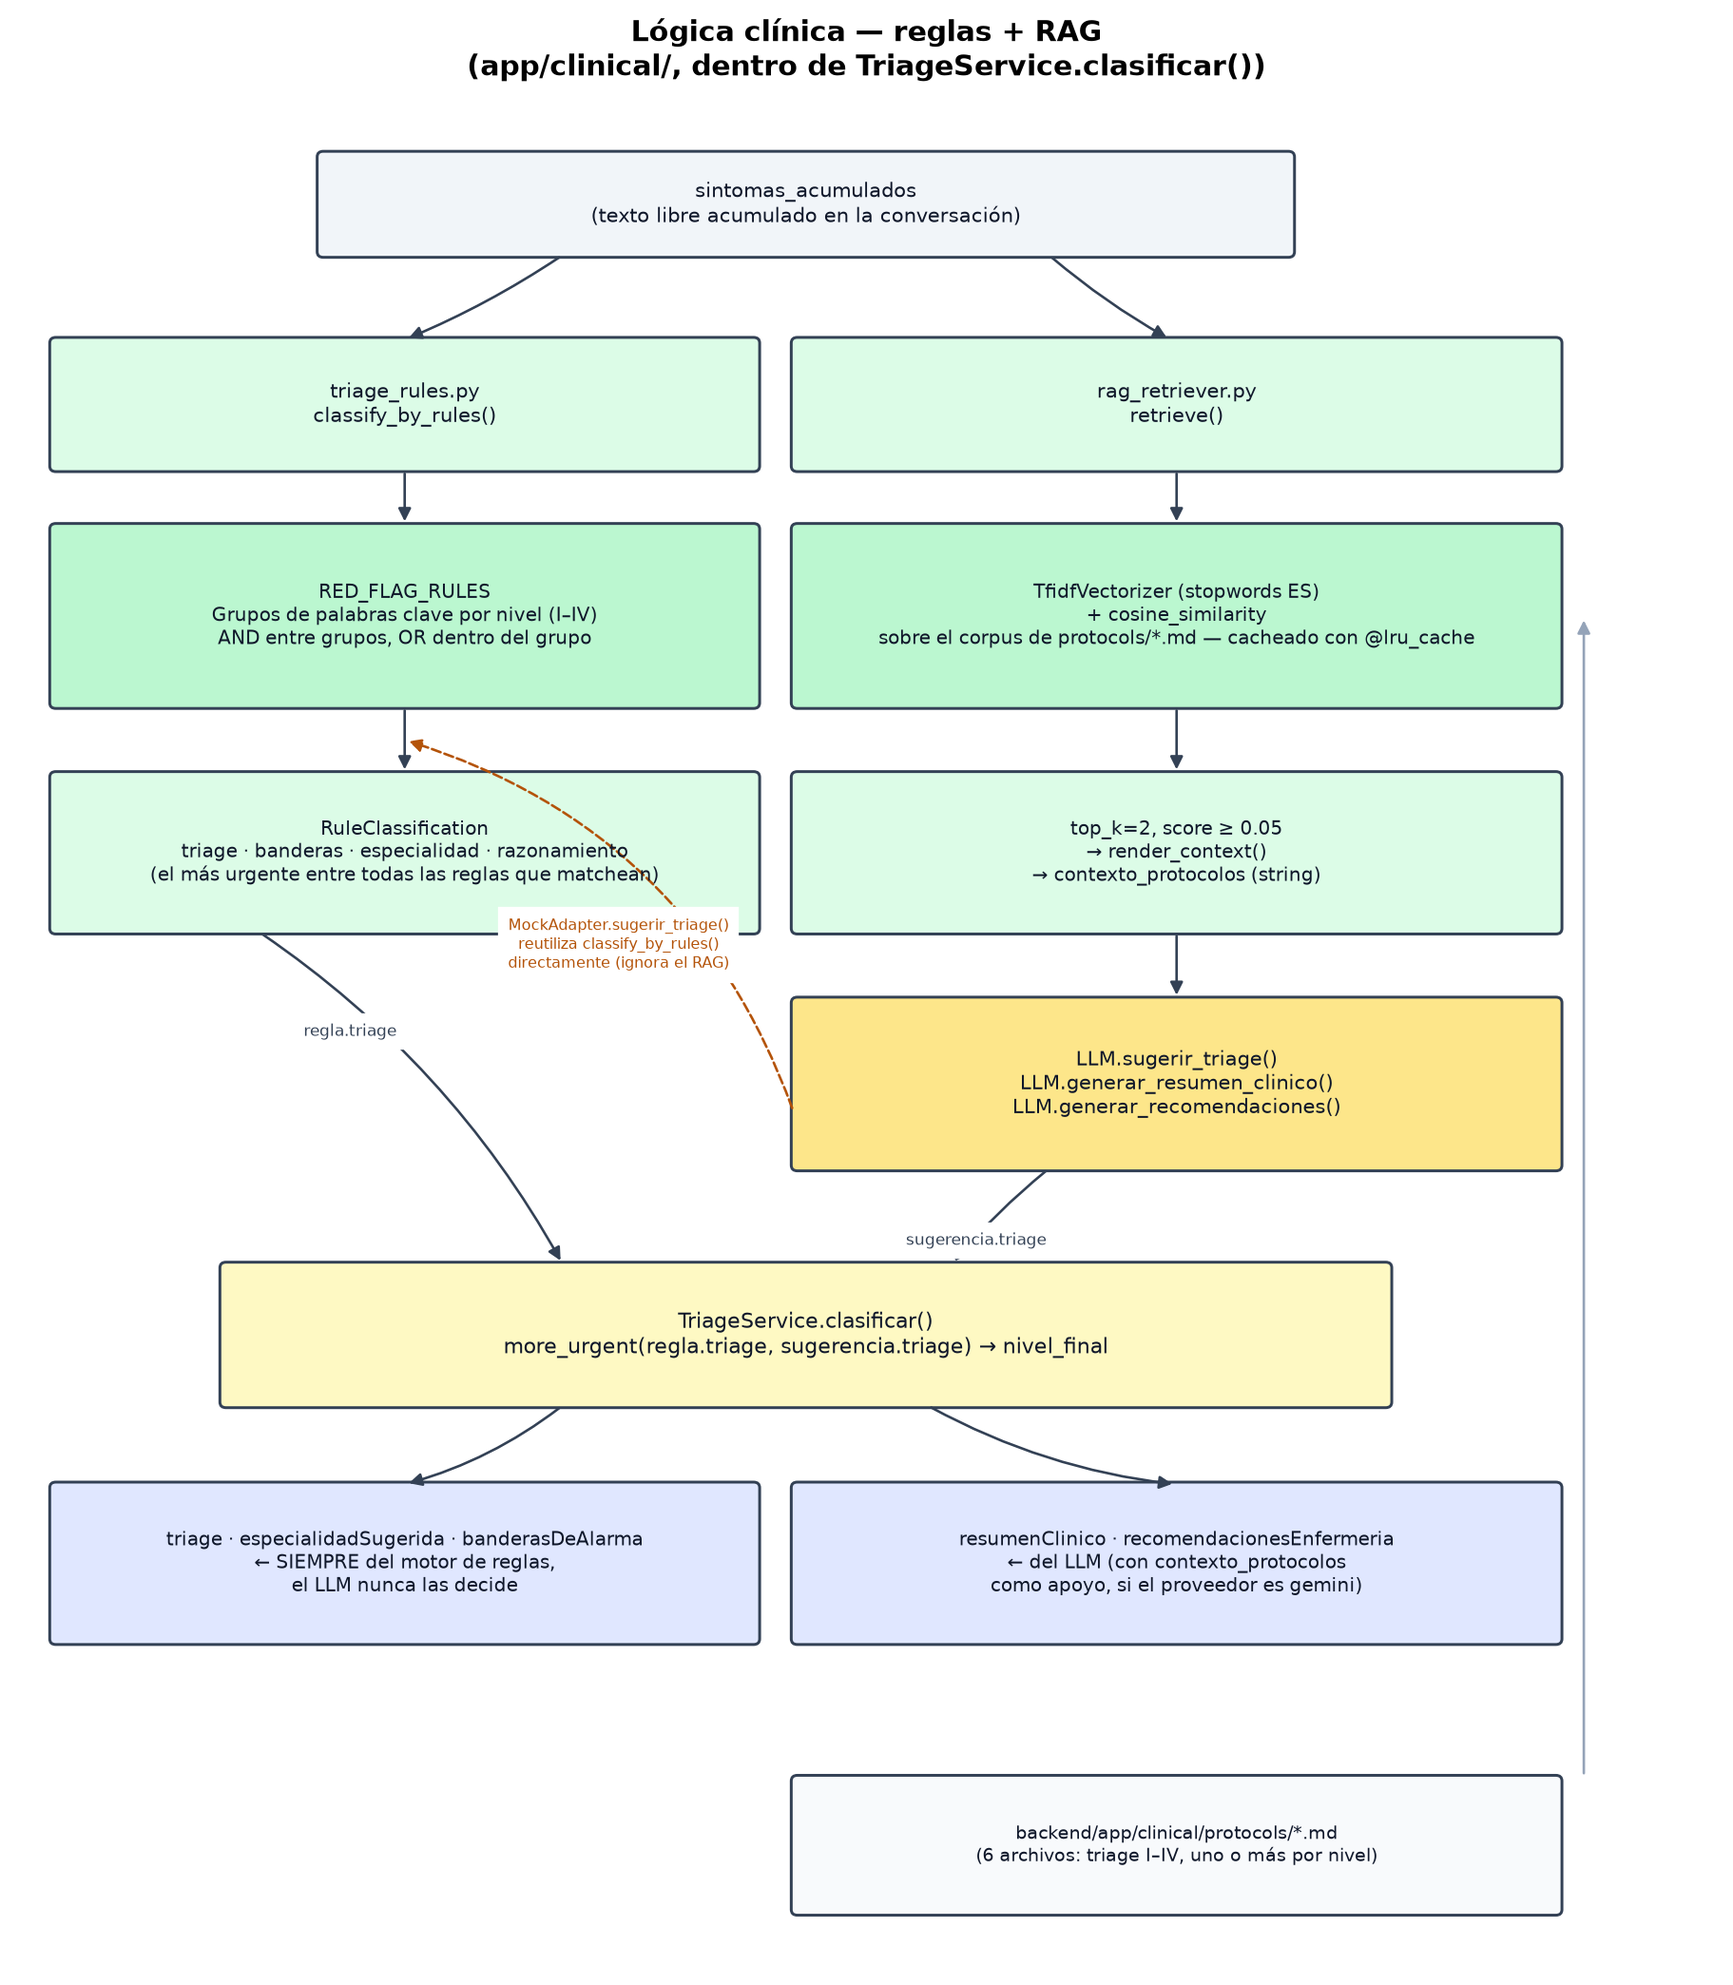
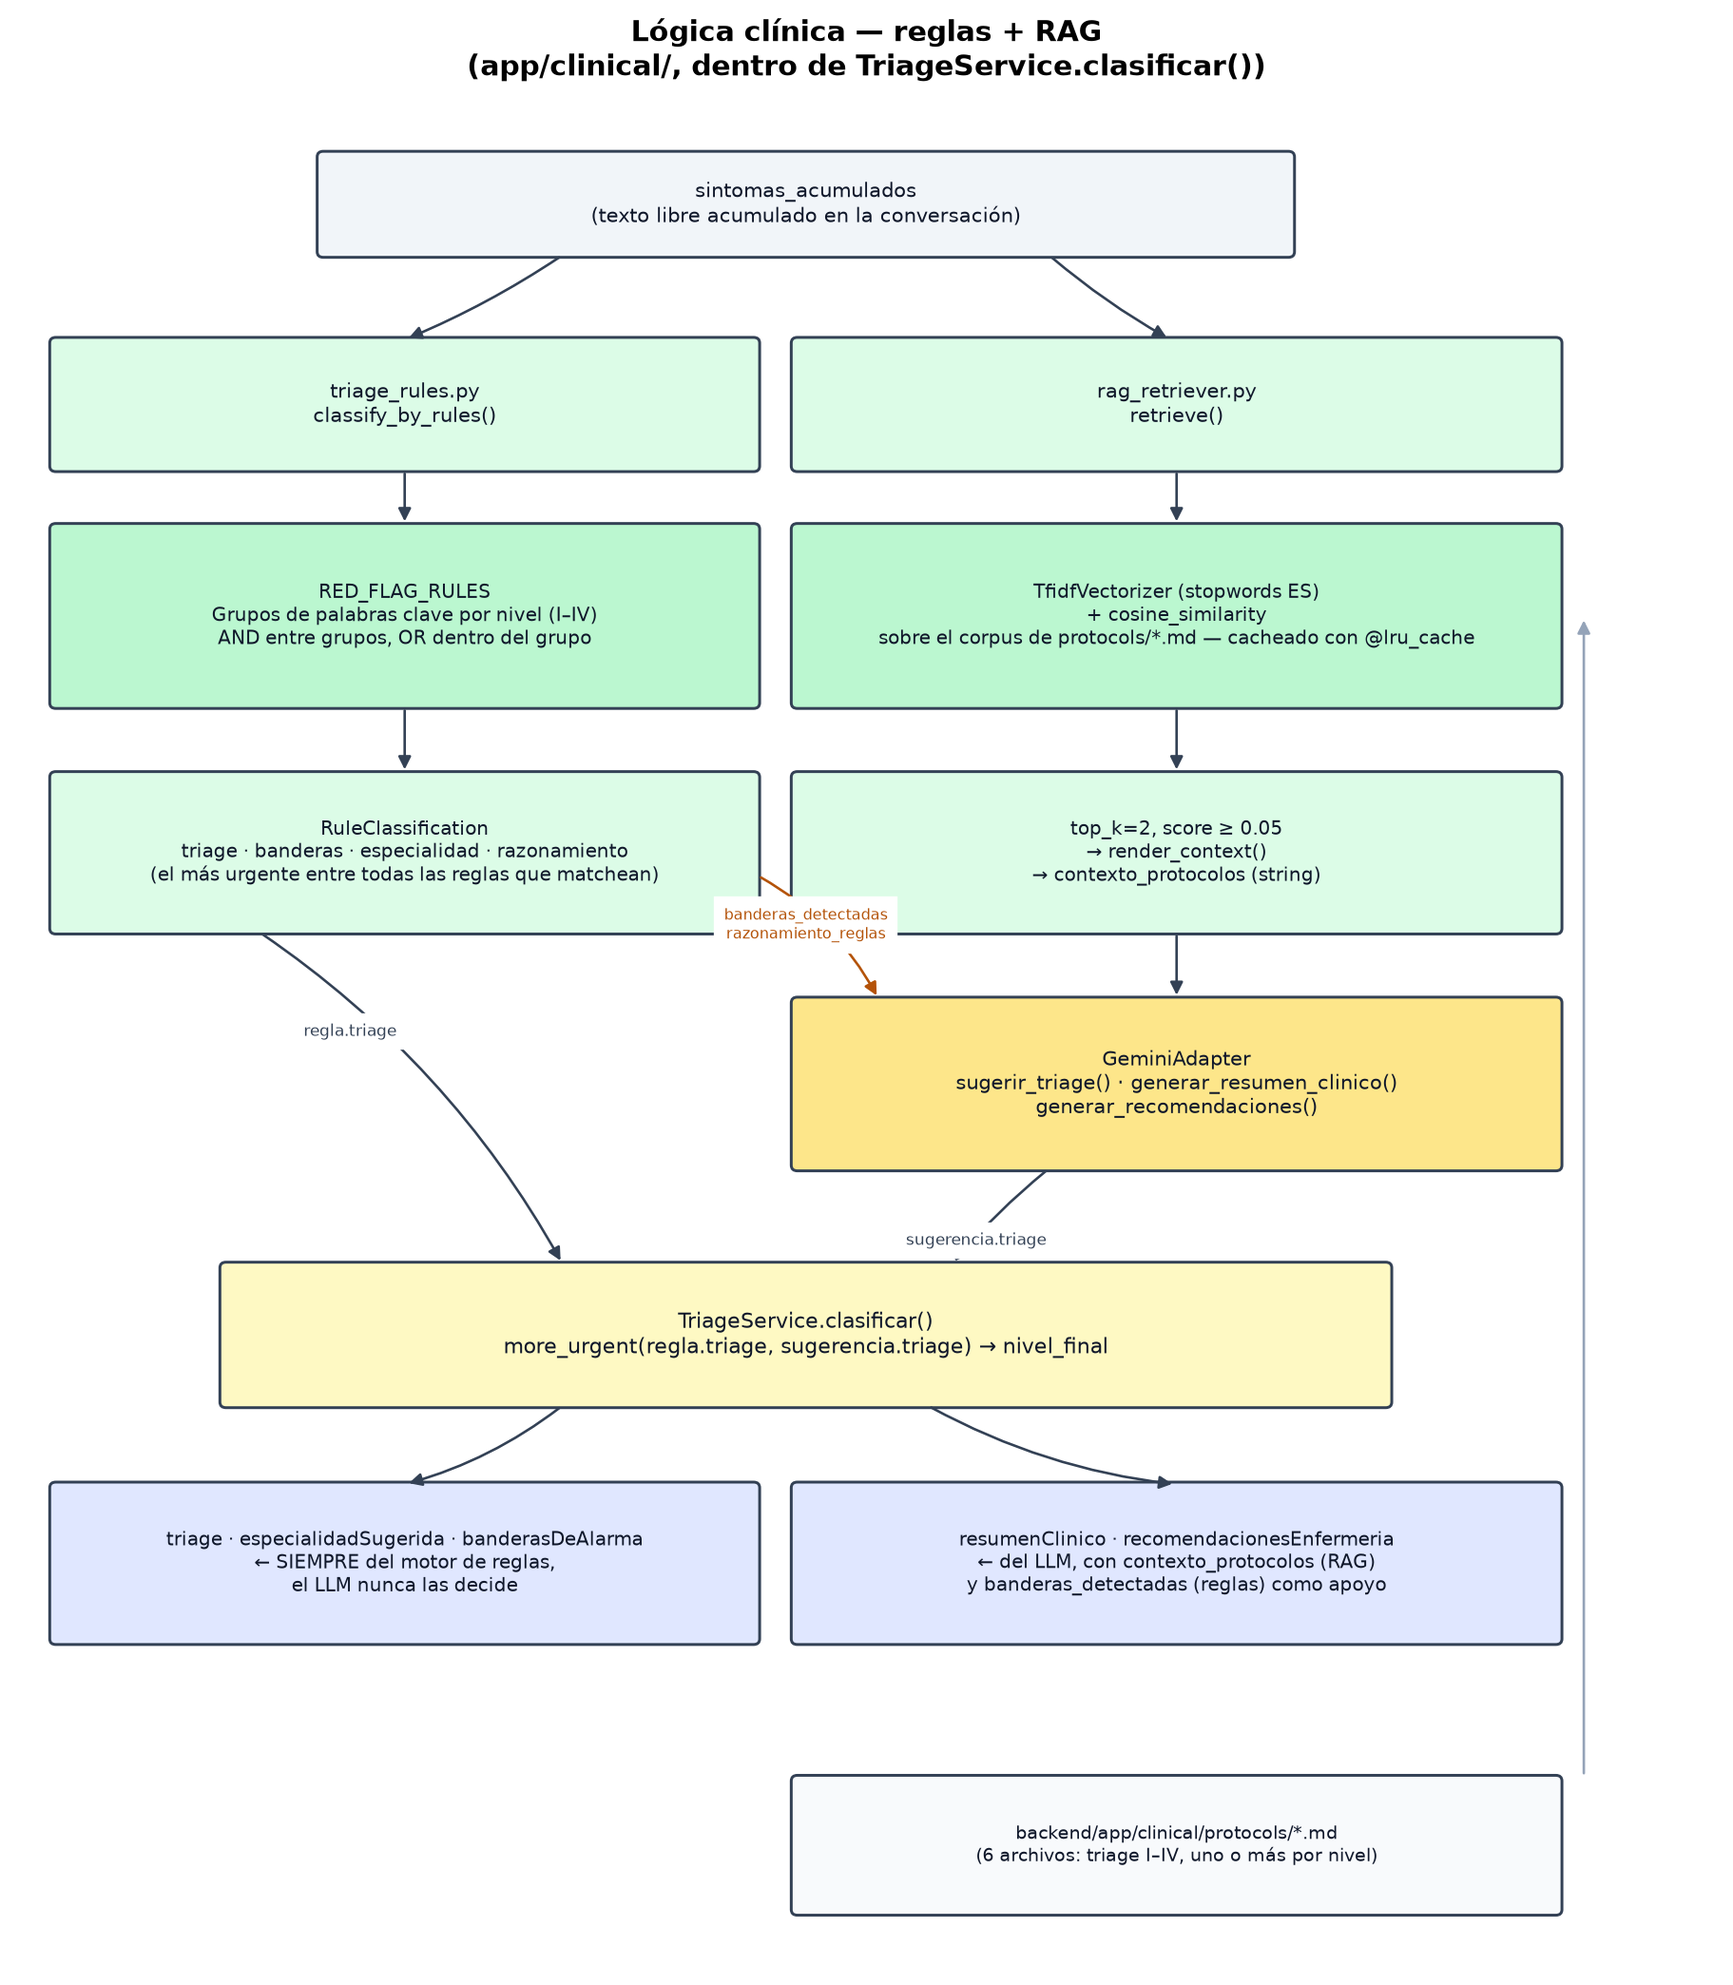
adaptaor mock eliminado

Changed region(s): [[0.2765, 0.4358, 0.5222, 0.4981], [0.5529, 0.7783, 0.7987, 0.8094], [0.5529, 0.5292, 0.7987, 0.5603]]

diff --git a/backend/app/llm/gemini.py b/backend/app/llm/gemini.py
@@ -59,18 +59,38 @@ class GeminiAdapter(LLMAdapter):
             raise LLMProviderError(f"Gemini: no se pudo interpretar la respuesta de intake ({exc})") from exc
 
     async def generar_resumen_clinico(
-        self, *, sintomas_acumulados: str, paciente: Paciente | None, contexto_protocolos: str
+        self,
+        *,
+        sintomas_acumulados: str,
+        paciente: Paciente | None,
+        contexto_protocolos: str,
+        banderas_detectadas: list[str],
     ) -> str:
         datos_paciente = {"edad": paciente.edad, "sexo": paciente.sexo} if paciente else "no proporcionados"
+        banderas_texto = ", ".join(banderas_detectadas) if banderas_detectadas else "ninguna detectada"
         contenido = (
             f"Síntomas reportados: {sintomas_acumulados}\n"
             f"Datos del paciente: {datos_paciente}\n"
+            f"Banderas de alarma ya detectadas por el motor de reglas: {banderas_texto}\n"
             f"Contexto de protocolos relevante:\n{contexto_protocolos or 'N/A'}"
         )
         return (await self._complete(system=RESUMEN_SYSTEM_PROMPT, messages=[{"role": "user", "content": contenido}])).strip()
 
-    async def sugerir_triage(self, *, sintomas_acumulados: str, contexto_protocolos: str) -> TriageSuggestion:
-        contenido = f"Síntomas: {sintomas_acumulados}\nProtocolos relevantes:\n{contexto_protocolos or 'N/A'}"
+    async def sugerir_triage(
+        self,
+        *,
+        sintomas_acumulados: str,
+        contexto_protocolos: str,
+        banderas_detectadas: list[str],
+        razonamiento_reglas: str,
+    ) -> TriageSuggestion:
+        banderas_texto = ", ".join(banderas_detectadas) if banderas_detectadas else "ninguna"
+        contenido = (
+            f"Síntomas: {sintomas_acumulados}\n"
+            f"Protocolos relevantes:\n{contexto_protocolos or 'N/A'}\n"
+            f"Banderas de alarma ya detectadas por el motor de reglas: {banderas_texto}\n"
+            f"Razonamiento del motor de reglas: {razonamiento_reglas}"
+        )
         raw = await self._complete(system=TRIAGE_SYSTEM_PROMPT, messages=[{"role": "user", "content": contenido}])
         try:
             return TriageSuggestion(**extract_json(raw))

diff --git a/backend/app/llm/base.py b/backend/app/llm/base.py
@@ -38,19 +38,31 @@ class LLMAdapter(ABC):
         sintomas_acumulados: str,
         paciente: Paciente | None,
         contexto_protocolos: str,
+        banderas_detectadas: list[str],
     ) -> str:
         """Genera un resumen clínico breve en tercera persona, estilo nota
-        de enfermería, a partir de los síntomas reportados."""
+        de enfermería, a partir de los síntomas reportados. `banderas_detectadas`
+        viene del motor de reglas (`app/clinical/triage_rules.py`) y se pasa como
+        contexto para que el resumen no quede inconsistente con lo que ese motor
+        ya encontró."""
 
     @abstractmethod
     async def sugerir_triage(
-        self, *, sintomas_acumulados: str, contexto_protocolos: str
+        self,
+        *,
+        sintomas_acumulados: str,
+        contexto_protocolos: str,
+        banderas_detectadas: list[str],
+        razonamiento_reglas: str,
     ) -> TriageSuggestion:
         """Sugiere un nivel de triage (I-IV) con su justificación. Esta sugerencia
         NUNCA se usa sola: el servicio de triage siempre la combina con el motor de
         reglas de banderas de alarma (`app/clinical/triage_rules.py`) tomando el
         nivel más urgente entre ambos, de modo que el LLM solo puede escalar la
-        prioridad, nunca reducirla por debajo de lo que indican las reglas."""
+        prioridad, nunca reducirla por debajo de lo que indican las reglas.
+        `banderas_detectadas` y `razonamiento_reglas` son la salida de ese mismo
+        motor, pasada como contexto adicional para que la sugerencia del LLM sea
+        consistente con lo que las reglas ya encontraron."""
 
     @abstractmethod
     async def generar_recomendaciones(

diff --git a/backend/app/config/settings.py b/backend/app/config/settings.py
@@ -3,8 +3,6 @@ from typing import Literal
 
 from pydantic_settings import BaseSettings, SettingsConfigDict
 
-LLMProvider = Literal["gemini", "mock"]
-
 
 class Settings(BaseSettings):
     model_config = SettingsConfigDict(env_file=".env", env_file_encoding="utf-8", extra="ignore")
@@ -14,11 +12,9 @@ class Settings(BaseSettings):
     log_level: str = "INFO"
     cors_origins: str = "http://localhost:5173"
 
-    # Proveedor de LLM activo. Si no hay API key configurada para el
-    # proveedor elegido, la app cae automáticamente a "mock" (motor de
-    # reglas) para poder seguir funcionando en desarrollo/pruebas.
-    llm_provider: LLMProvider = "mock"
-
+    # Gemini es el único proveedor de LLM soportado. Sin GEMINI_API_KEY
+    # configurada, app/llm/factory.py falla al arrancar (fail-fast) en vez
+    # de degradar en silencio a un motor sin LLM real.
     gemini_api_key: str | None = None
     gemini_model: str = "gemini-1.5-flash"
 
@@ -38,15 +34,6 @@ class Settings(BaseSettings):
     @property
     def cors_origin_list(self) -> list[str]:
         return [origin.strip() for origin in self.cors_origins.split(",") if origin.strip()]
-
-    def active_provider(self) -> LLMProvider:
-        """Determina el proveedor realmente utilizable según las keys presentes."""
-        key_by_provider = {
-            "gemini": self.gemini_api_key,
-        }
-        if self.llm_provider != "mock" and not key_by_provider.get(self.llm_provider):
-            return "mock"
-        return self.llm_provider
 
 
 @lru_cache

diff --git a/backend/app/llm/prompts.py b/backend/app/llm/prompts.py
@@ -25,8 +25,11 @@ RESUMEN_SYSTEM_PROMPT = (
     DISCLAIMER_SISTEMA
     + "\n\nTarea: redacta un resumen clínico breve (2-4 frases), en tercera persona, "
     "estilo nota de enfermería, a partir de los síntomas reportados y el contexto de "
-    "protocolos proporcionado. No incluyas diagnósticos ni tratamientos. "
-    "Responde ÚNICAMENTE con el texto del resumen, sin JSON ni comillas."
+    "protocolos proporcionado. Si se te indican banderas de alarma ya detectadas por "
+    "un motor de reglas determinista, tu resumen debe reflejarlas explícitamente: "
+    "nunca redactes un resumen que suene más leve que esas banderas. No incluyas "
+    "diagnósticos ni tratamientos. Responde ÚNICAMENTE con el texto del resumen, "
+    "sin JSON ni comillas."
 )
 
 TRIAGE_SYSTEM_PROMPT = (
@@ -35,7 +38,10 @@ TRIAGE_SYSTEM_PROMPT = (
     "proporcionado, sugiere el nivel de triage más adecuado según esta escala:\n"
     "I = Emergencia inmediata, II = Urgente, III = Prioritario, IV = No urgente.\n"
     "Ante cualquier duda entre dos niveles, elige el más urgente (nunca subestimes "
-    "un caso). Responde ÚNICAMENTE con un JSON: "
+    "un caso). Si se te indican banderas de alarma ya detectadas por un motor de "
+    "reglas determinista, trátalas como hallazgos confirmados: tu sugerencia nunca "
+    "debe ignorarlas ni proponer un nivel menos urgente que el que implican. "
+    "Responde ÚNICAMENTE con un JSON: "
     '{"triage": "I|II|III|IV", "justificacion": "breve explicacion clinica"}'
 )
 

diff --git a/backend/app/llm/factory.py b/backend/app/llm/factory.py
@@ -1,16 +1,16 @@
 from app.config.settings import Settings
 from app.llm.base import LLMAdapter
 from app.llm.gemini import GeminiAdapter
-from app.llm.mock import MockAdapter
 
 
 def build_llm_adapter(settings: Settings) -> LLMAdapter:
-    provider = settings.active_provider()
-
-    if provider == "gemini":
-        return GeminiAdapter(
-            api_key=settings.gemini_api_key,
-            model=settings.gemini_model,
-            timeout_seconds=settings.llm_timeout_seconds,
+    if not settings.gemini_api_key:
+        raise RuntimeError(
+            "GEMINI_API_KEY no está configurada. El asistente requiere un proveedor "
+            "LLM real; configúrala en backend/.env antes de levantar el servicio."
         )
-    return MockAdapter()
+    return GeminiAdapter(
+        api_key=settings.gemini_api_key,
+        model=settings.gemini_model,
+        timeout_seconds=settings.llm_timeout_seconds,
+    )

diff --git a/backend/app/services/triage_service.py b/backend/app/services/triage_service.py
@@ -54,10 +54,14 @@ class TriageService:
             sintomas_acumulados=sintomas_acumulados,
             paciente=conversacion.paciente,
             contexto_protocolos=contexto_protocolos,
+            banderas_detectadas=regla.banderas,
         )
 
         sugerencia = await self._llm.sugerir_triage(
-            sintomas_acumulados=sintomas_acumulados, contexto_protocolos=contexto_protocolos
+            sintomas_acumulados=sintomas_acumulados,
+            contexto_protocolos=contexto_protocolos,
+            banderas_detectadas=regla.banderas,
+            razonamiento_reglas=regla.razonamiento,
         )
         nivel_llm = sugerencia.triage if sugerencia.triage in _VALID_LEVELS else regla.triage
         nivel_final = more_urgent(nivel_llm, regla.triage)

diff --git a/docs/decisiones_tecnicas.md b/docs/decisiones_tecnicas.md
@@ -6,11 +6,19 @@
 
 **Por qué:** es un asistente clínico; un falso negativo (subestimar urgencia) es mucho más costoso que un falso positivo. Las reglas actúan como red de seguridad determinista sobre un componente probabilístico (el LLM).
 
-## Proveedor de LLM con fallback automático a `mock`
+## LLM: solo Gemini, sin mock, falla rápido sin API key
 
-`Settings.active_provider()` (`app/config/settings.py`) hace que si `LLM_PROVIDER=gemini` pero no hay `GEMINI_API_KEY` configurada, la app use `mock` automáticamente en vez de fallar.
+`app/llm/mock.py` existió como proveedor de respaldo (sin red, sin costo) y se eliminó. `build_llm_adapter()` (`app/llm/factory.py`) ahora requiere `GEMINI_API_KEY`; si falta, lanza `RuntimeError` al arrancar en vez de degradar en silencio.
 
-**Por qué:** permite levantar el proyecto sin depender de credenciales externas. 
+**Por qué:** el fallback automático a mock era silencioso — un despliegue mal configurado podía terminar sirviendo respuestas de plantilla sin que nadie se enterara, algo grave en un asistente clínico. Fail-fast hace el problema visible de inmediato en vez de descubrirlo por la calidad de las respuestas.
+
+**Implicación:** el proyecto ya no puede correr sin una `GEMINI_API_KEY` válida — ni local, ni en CI. El motor de reglas (`triage_rules.py`) sigue siendo independiente del LLM y se sigue usando siempre como red de seguridad.
+
+## El LLM recibe las banderas de alarma del motor de reglas
+
+`TriageService.clasificar()` le pasa `regla.banderas` y `regla.razonamiento` (ya calculados por `classify_by_rules()`) a `GeminiAdapter.generar_resumen_clinico()` y `sugerir_triage()`, además del contexto del RAG.
+
+**Por qué:** antes el LLM redactaba el resumen y su propia sugerencia de triage sin saber qué banderas ya había detectado el motor de reglas — podía sonar "leve" mientras el sistema terminaba asignando Triage I por una regla que el LLM nunca vio. Ahora el prompt se lo dice explícitamente (ver [`logica_clinica.md`](logica_clinica.md)), así el texto generado queda coherente con el nivel que las reglas van a forzar de todas formas vía `more_urgent()`.
 
 ## Dos stores en memoria, no en base de datos (todavía)
 

diff --git a/docs/logica_clinica.md b/docs/logica_clinica.md
@@ -72,7 +72,9 @@ El modelo de lenguaje recibe como entrada:
 
 - los síntomas del paciente;
 - el contexto recuperado por el módulo RAG;
-- el nivel de triaje determinado por el sistema.
+- las banderas de alarma y el razonamiento ya determinados por el motor de reglas.
+
+Esto último es intencional: sin esa información, el modelo podía generar un resumen o una justificación que sonaran menos urgentes que el nivel que el sistema termina asignando igualmente por reglas. Al dársela como contexto, el texto generado queda alineado con la clasificación final.
 
 Con esta información genera:
 
@@ -80,7 +82,7 @@ Con esta información genera:
 - recomendaciones para el personal asistencial;
 - una sugerencia adicional de clasificación.
 
-Dependiendo de la configuración del sistema, el modelo puede corresponder a un proveedor externo o a una implementación simulada utilizada durante el desarrollo y las pruebas.
+El modelo de lenguaje utilizado es un proveedor externo (Gemini); el sistema requiere su configuración para funcionar y no cuenta con una implementación simulada de respaldo.
 
 ---
 

diff --git a/docs/instalacion.md b/docs/instalacion.md
@@ -53,8 +53,7 @@ Pon el **mismo valor** en:
 | `APP_ENV`              | `development` \| `production` \| `test`                                        |
 | `LOG_LEVEL`            | Nivel de logging (`INFO`, `DEBUG`, ...)                                        |
 | `CORS_ORIGINS`         | Orígenes permitidos, separados por coma (debe incluir la URL del frontend)     |
-| `LLM_PROVIDER`         | `mock` (reglas locales, sin costo/red) o `gemini` (requiere `GEMINI_API_KEY`)  |
-| `GEMINI_API_KEY`       | API key de Gemini. Si falta, la app cae automáticamente a `mock`.              |
+| `GEMINI_API_KEY`       | **Requerida.** Sin ella, el backend falla al arrancar (no hay proveedor de respaldo). |
 | `GEMINI_MODEL`         | Modelo de Gemini a usar                                                        |
 | `SESSION_TTL_MINUTES`  | Minutos de inactividad antes de expirar una sesión de conversación             |
 | `AUDIT_LOG_PATH`       | Ruta del log de auditoría dentro del contenedor                                |
